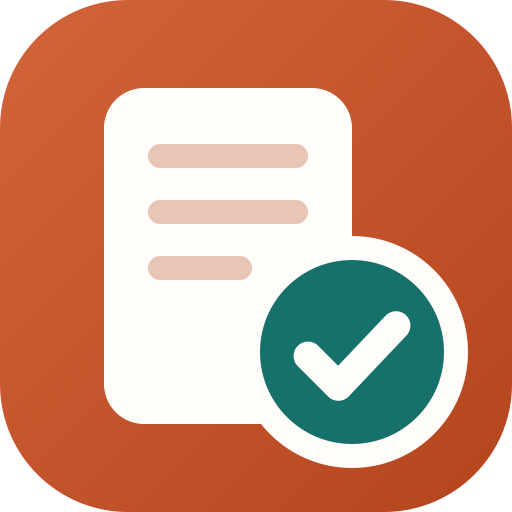
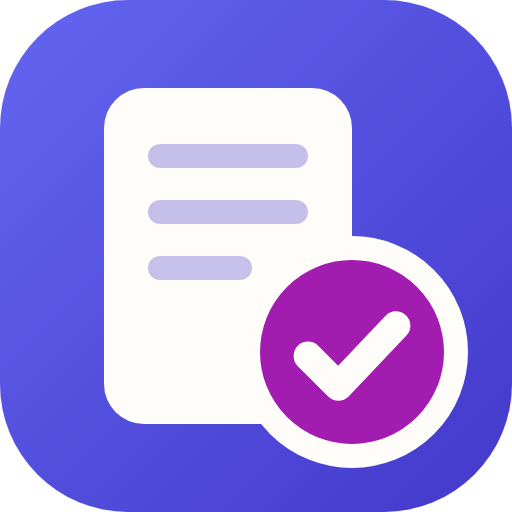
feat: move the palette to indigo and magenta (#37)
The terracotta primary and teal second voice read close to telc's own
red-orange and teal. Primary is now indigo (#4338ca, dark #a5b4fc) and the
second voice magenta (#a21caf, dark #e879f9); chart-5 becomes slate so it no
longer sits beside the indigo. White on the primary rises from 5.6:1 to
7.9:1; e2e/contrast.spec.js passes in both themes. Logo, favicon, maskable
icon, PNG icons, social card and manifest theme colour follow.

diff --git a/src/styles/index.css b/src/styles/index.css
@@ -20,18 +20,18 @@
   --popover: #fffdf9;
   --popover-foreground: #2b2420;
 
-  /* Terracotta. White on it measures 5.6:1; as text on the canvas 5.2:1. Lightening it
+  /* Indigo. White on it measures 7.9:1; as text on the canvas 7.4:1. Lightening it
      re-breaks the default button, the most-used control in the app. */
-  --primary: #b4441c;
+  --primary: #4338ca;
   --primary-foreground: #ffffff;
   --secondary: #f3ece3;
   --secondary-foreground: #2b2420;
   --muted: #f3ece3;
   --muted-foreground: #6b5e55; /* 5.9:1 on the canvas */
-  --accent: #f7e6da; /* soft terracotta tint: hover, active nav */
-  --accent-foreground: #8a3416; /* 6.7:1 on the accent */
-  /* Teal second voice: charts and secondary emphasis, never status. */
-  --brand-2: #17716b;
+  --accent: #e9e8fb; /* soft indigo tint: hover, active nav */
+  --accent-foreground: #3730a3; /* 8.2:1 on the accent */
+  /* Magenta second voice: charts and secondary emphasis, never status. */
+  --brand-2: #a21caf;
 
   /* A tint and a solid fill of one colour need opposite inks, so each domain colour carries
      both. `--*-foreground` / `--*-on-fill` sit on the solid fill; `--*-on-tint` and the
@@ -42,7 +42,7 @@
 
   --border: #e8ddd0;
   --input: #98877a; /* field boundary: 3.40:1 on --card (WCAG 1.4.11) */
-  --ring: #b4441c;
+  --ring: #4338ca;
 
   /* Domain colours: pass grades, correctness, urgency. */
   --success: #2f7d52;
@@ -60,16 +60,16 @@
   --shadow-pop: 0 6px 16px rgb(74 46 26 / 0.1), 0 24px 48px -12px rgb(74 46 26 / 0.24);
 
   /* The brand mark (AppLogo, public/logo.svg). Not overridden in .dark: a logo does not invert. */
-  --logo-tile: #b4441c;
-  --logo-tile-light: #d2643a;
+  --logo-tile: #4338ca;
+  --logo-tile-light: #6366f1;
   --logo-paper: #fffdf9;
-  --logo-mark: #17716b;
+  --logo-mark: #a21caf;
 
-  --chart-1: #b4441c;
-  --chart-2: #17716b;
+  --chart-1: #4338ca;
+  --chart-2: #a21caf;
   --chart-3: #2f7d52;
   --chart-4: #9a6400;
-  --chart-5: #6b5a99;
+  --chart-5: #5a6b7d;
 }
 
 /* Warm charcoal, never pure black. */
@@ -81,15 +81,15 @@
   --popover: #26211d;
   --popover-foreground: #f4ede5;
 
-  --primary: #f0895b;
-  --primary-foreground: #2a1206; /* 7.1:1 — the light fill takes a dark label */
+  --primary: #a5b4fc;
+  --primary-foreground: #1e1b4b; /* 8.0:1 — the light fill takes a dark label */
   --secondary: #332c27;
   --secondary-foreground: #f4ede5;
   --muted: #332c27;
   --muted-foreground: #b9aca1;
-  --accent: #3a2a22;
-  --accent-foreground: #f8c9ae;
-  --brand-2: #4fb8ae;
+  --accent: #2a2847;
+  --accent-foreground: #c7d2fe;
+  --brand-2: #e879f9;
 
   /* `--destructive` stays light: it is also the `text-destructive` ink on the canvas. */
   --destructive: #f07468;
@@ -98,7 +98,7 @@
 
   --border: rgb(255 240 225 / 0.12);
   --input: #7a6c62; /* field boundary: 3.15:1 on --card (WCAG 1.4.11) */
-  --ring: #f0895b;
+  --ring: #a5b4fc;
 
   --success: #5cc08a;
   --success-foreground: #9be0b8;
@@ -113,11 +113,11 @@
   --shadow-lift: 0 0 0 1px rgb(255 240 225 / 0.1), 0 14px 28px -8px rgb(0 0 0 / 0.55);
   --shadow-pop: 0 0 0 1px rgb(255 240 225 / 0.1), 0 24px 48px -12px rgb(0 0 0 / 0.65);
 
-  --chart-1: #f0895b;
-  --chart-2: #4fb8ae;
+  --chart-1: #a5b4fc;
+  --chart-2: #e879f9;
   --chart-3: #5cc08a;
   --chart-4: #f0b93a;
-  --chart-5: #b6a6e0;
+  --chart-5: #a7b4c4;
 }
 
 @theme inline {

diff --git a/src/shared/ui/button.tsx b/src/shared/ui/button.tsx
@@ -13,7 +13,7 @@ const buttonVariants = cva(
         default: 'bg-primary text-primary-foreground shadow-soft hover:bg-primary/90',
         destructive: 'bg-destructive text-destructive-foreground shadow-soft hover:bg-destructive/90',
         outline: 'border bg-card shadow-soft hover:bg-accent hover:text-accent-foreground',
-        /* A soft terracotta tint: the quiet sibling of the default fill. */
+        /* A soft indigo tint: the quiet sibling of the default fill. */
         secondary: 'bg-accent text-accent-foreground hover:bg-accent/70',
         ghost: 'hover:bg-accent hover:text-accent-foreground',
         link: 'text-primary underline-offset-4 hover:underline',

diff --git a/e2e/contrast.spec.js b/e2e/contrast.spec.js
@@ -172,7 +172,7 @@ const PAIRS = [
     need: 3
   },
   {
-    id: 'teal second voice (charts) on a card',
+    id: 'magenta second voice (charts) on a card',
     surface: 'bg-card',
     html: '<span class="block h-2 w-20 bg-brand-2"></span>',
     prop: 'backgroundColor',

diff --git a/.claude/rules/ui-design-system.md b/.claude/rules/ui-design-system.md
@@ -27,10 +27,10 @@ fill of one colour need opposite inks.
 | `--card` / `--popover`          | `#fffdf9`                            | `#26211d`                  | cards, menus                                             |
 | `--muted` / `--secondary`       | `#f3ece3`                            | `#332c27`                  | quiet surfaces, tracks                                   |
 | `--muted-foreground`            | `#6b5e55`                            | `#b9aca1`                  | secondary text; checkbox/radio edge                      |
-| `--primary` / `--ring`          | `#b4441c`                            | `#f0895b`                  | terracotta: actions, links, focus                        |
-| `--primary-foreground`          | `#ffffff`                            | `#2a1206`                  | label on primary                                         |
-| `--accent` / `-foreground`      | `#f7e6da` / `#8a3416`                | `#3a2a22` / `#f8c9ae`      | soft tint: hover, active nav, secondary button           |
-| `--brand-2`                     | `#17716b`                            | `#4fb8ae`                  | teal second voice (charts), never status                 |
+| `--primary` / `--ring`          | `#4338ca`                            | `#a5b4fc`                  | indigo: actions, links, focus                            |
+| `--primary-foreground`          | `#ffffff`                            | `#1e1b4b`                  | label on primary                                         |
+| `--accent` / `-foreground`      | `#e9e8fb` / `#3730a3`                | `#2a2847` / `#c7d2fe`      | soft tint: hover, active nav, secondary button           |
+| `--brand-2`                     | `#a21caf`                            | `#e879f9`                  | magenta second voice (charts), never status              |
 | `--success` / `-on-fill`        | `#2f7d52` / `#ffffff`                | `#5cc08a` / `#0d2618`      | fill and its label                                       |
 | `--success-foreground`          | `#1e6440`                            | `#9be0b8`                  | ink on the success tint                                  |
 | `--warning` / `-foreground`     | `#e3a21a` / `#7a4e00`                | `#f0b93a` / `#f5d58a`      | tint source / ink, ring and meter stroke                 |
@@ -38,7 +38,7 @@ fill of one colour need opposite inks.
 | `--destructive-on-tint`         | `#a62e25`                            | `#ff9a8f`                  | ink on the destructive tint                              |
 | `--border` / `--input`          | `#e8ddd0` / `#98877a`                | 12% warm white / `#7a6c62` | hairlines / field boundary (input ≥ 3:1 on card, 1.4.11) |
 | `--scrim`                       | ink at 45%                           | near-black at 62%          | behind dialogs (`bg-scrim`)                              |
-| `--chart-1..5`                  | terracotta, teal, green, ochre, plum | lighter set                | charts, both themes                                      |
+| `--chart-1..5`                  | indigo, magenta, green, ochre, slate | lighter set                | charts, both themes                                      |
 | `--logo-*`                      | fixed, no dark override              | —                          | the brand mark only                                      |
 
 - **Shadows** (warm-tinted; utilities `shadow-soft` resting card, `shadow-lift` hover/raised,
@@ -88,7 +88,8 @@ component lives in its own folder (`components/ScoreMeter/ScoreMeter.tsx`).
   itself hides its value.
 - Contrast: `e2e/contrast.spec.js` measures every ink and mark against its WCAG minimum in both
   themes by painting onto a canvas (computed styles return `oklch()`/`color-mix()`). White on
-  `--primary` measures 5.55:1 — lightening the terracotta re-breaks the default button. A class
+  `--primary` measures 7.9:1 (indigo since 2026-10-13, replacing a terracotta that read as
+  telc's red-orange). A class
   used only by that spec (`bg-brand-2`) is still generated: Tailwind scans `e2e/`.
 - Focus: 3px `ring-ring` (≥ 5:1 on canvas and card) with a 2px offset on filled controls; text
   fields swap their border to `--ring` plus a soft halo.

diff --git a/design-system/pruefungstrainer-deutsch/MASTER.md b/design-system/pruefungstrainer-deutsch/MASTER.md
@@ -15,7 +15,7 @@ DTZ — who need calm, legible, encouraging, never childish.
 ## Direction: warm & friendly, grown-up
 
 - Warm cream canvas, white-warm cards, ink that is brown-black rather than blue-black.
-- One warm brand colour (terracotta) for action and focus; teal as the quiet second voice for
+- One brand colour (indigo) for action and focus; magenta as the quiet second voice for
   charts and secondary emphasis. Green/amber/red carry status only.
 - Generous rounding (cards 16px, controls 12px, pills full), soft warm-tinted shadows, no hard
   1px grey boxes everywhere — separate with space and surface tone first, borders second.
@@ -54,11 +54,11 @@ strokes ≥ 3:1. `e2e/contrast.spec.js` re-measures them in a real browser.
 | `--card`                | `#FFFDF9` | cards, popovers                           |
 | `--muted`/`--secondary` | `#F3ECE3` | quiet surfaces, tracks                    |
 | `--muted-foreground`    | `#6B5E55` | secondary text — 5.9:1 on bg              |
-| `--primary`             | `#B4441C` | terracotta: actions, focus, links — 5.2:1 |
-| `--primary-foreground`  | `#FFFFFF` | on primary — 5.6:1                        |
-| `--accent`              | `#F7E6DA` | soft terracotta tint (hover, active nav)  |
-| `--accent-foreground`   | `#8A3416` | on accent — 6.7:1                         |
-| `--brand-2`             | `#17716B` | teal second voice (charts, highlights)    |
+| `--primary`             | `#4338CA` | indigo: actions, focus, links — 7.4:1     |
+| `--primary-foreground`  | `#FFFFFF` | on primary — 7.9:1                        |
+| `--accent`              | `#E9E8FB` | soft indigo tint (hover, active nav)      |
+| `--accent-foreground`   | `#3730A3` | on accent — 8.2:1                         |
+| `--brand-2`             | `#A21CAF` | magenta second voice (charts, highlights) |
 | `--success`             | `#2F7D52` | fill; white label 5.0:1                   |
 | `--success-foreground`  | `#1E6440` | ink on success tint                       |
 | `--warning`             | `#E3A21A` | fill/tint source                          |
@@ -67,7 +67,7 @@ strokes ≥ 3:1. `e2e/contrast.spec.js` re-measures them in a real browser.
 | `--destructive-on-tint` | `#A62E25` | ink on destructive tint                   |
 | `--border`              | `#E8DDD0` |                                           |
 | `--input`               | `#98877A` | field boundary — 3.4:1 on card (1.4.11)   |
-| `--ring`                | `#B4441C` |                                           |
+| `--ring`                | `#4338CA` |                                           |
 
 ### Dark (warm charcoal, never pure black)
 
@@ -78,9 +78,9 @@ strokes ≥ 3:1. `e2e/contrast.spec.js` re-measures them in a real browser.
 | `--card`                | `#26211D`                                            |
 | `--muted`/`--secondary` | `#332C27`                                            |
 | `--muted-foreground`    | `#B9ACA1`                                            |
-| `--primary`             | `#F0895B` (ink `#2A1206`, 7.1:1)                     |
-| `--accent`              | `#3A2A22` (ink `#F8C9AE`)                            |
-| `--brand-2`             | `#4FB8AE`                                            |
+| `--primary`             | `#A5B4FC` (ink `#1E1B4B`, 8.0:1)                     |
+| `--accent`              | `#2A2847` (ink `#C7D2FE`)                            |
+| `--brand-2`             | `#E879F9`                                            |
 | `--success`             | `#5CC08A` (ink on fill `#0D2618`; on tint `#9BE0B8`) |
 | `--warning`             | `#F0B93A` (ink on tint `#F5D58A`)                    |
 | `--destructive`         | `#F07468` (ink on fill `#2A0A07`; on tint `#FF9A8F`) |

diff --git a/.claude/agent-memory/ui-designer/MEMORY.md b/.claude/agent-memory/ui-designer/MEMORY.md
@@ -2,7 +2,7 @@
 
 One dated line per lesson. Read before designing; append after a retry.
 
-- 2026-10-12: (5A palette) White on terracotta `--primary` #b4441c measures 5.55:1; lightening it re-breaks the default button.
+- 2026-10-12: (5A palette) White on the then-terracotta `--primary` measured 5.55:1; lightening it re-broke the default button. 2026-10-13: palette moved to indigo #4338ca / magenta #a21caf (7.9:1) so it no longer resembles telc's red-orange + teal.
 - 2026-10-12: A tint and a solid fill of one colour need opposite inks — `--*-on-tint` and `--*-on-fill` tokens.
 - 2026-10-12: Computed styles return `oklch()`/`color-mix()`; contrast is measured by painting to a canvas (`e2e/contrast.spec.js`).
 - 2026-10-12: `test.use({ reducedMotion })` did not reach the media query; use `page.emulateMedia` and assert it.

diff --git a/docs/architecture/quality-gates.md b/docs/architecture/quality-gates.md
@@ -35,7 +35,7 @@ flowchart TD
   merge --> tag{"package.json version changed?"}
   tag -- yes --> release["tag-release.yml: tag, attach built site,<br/>GitHub release"]
 
-  classDef boundary fill:#f7e6da,stroke:#b4441c,stroke-width:2px,color:#2b2420
+  classDef boundary fill:#e9e8fb,stroke:#4338ca,stroke-width:2px,color:#2b2420
   class protect boundary
 ```
 
